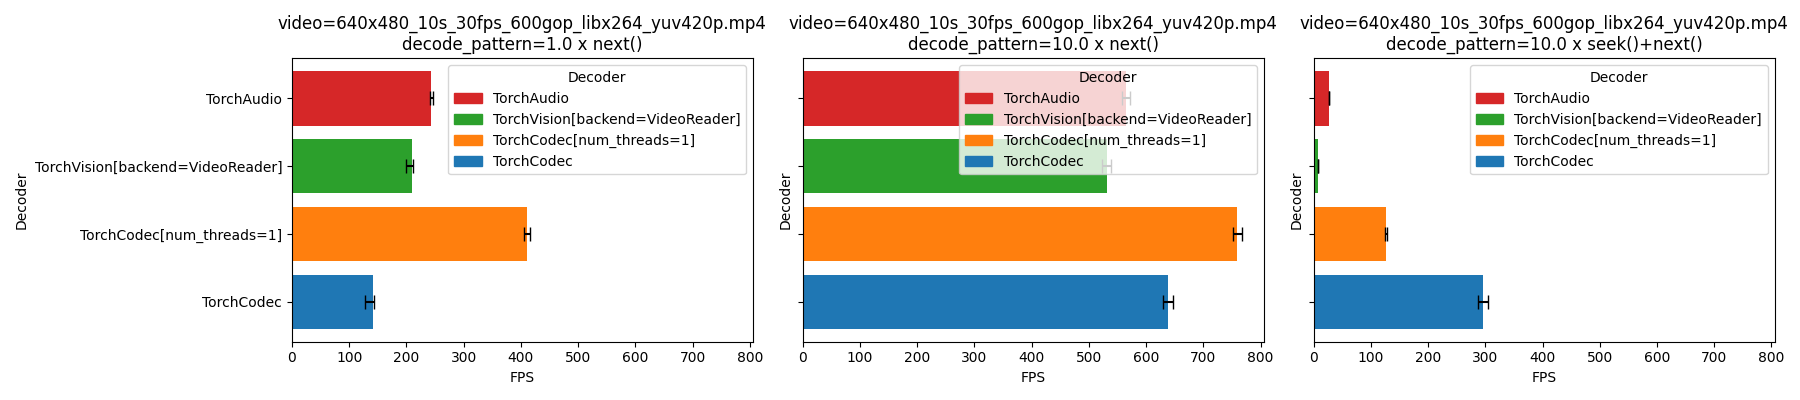
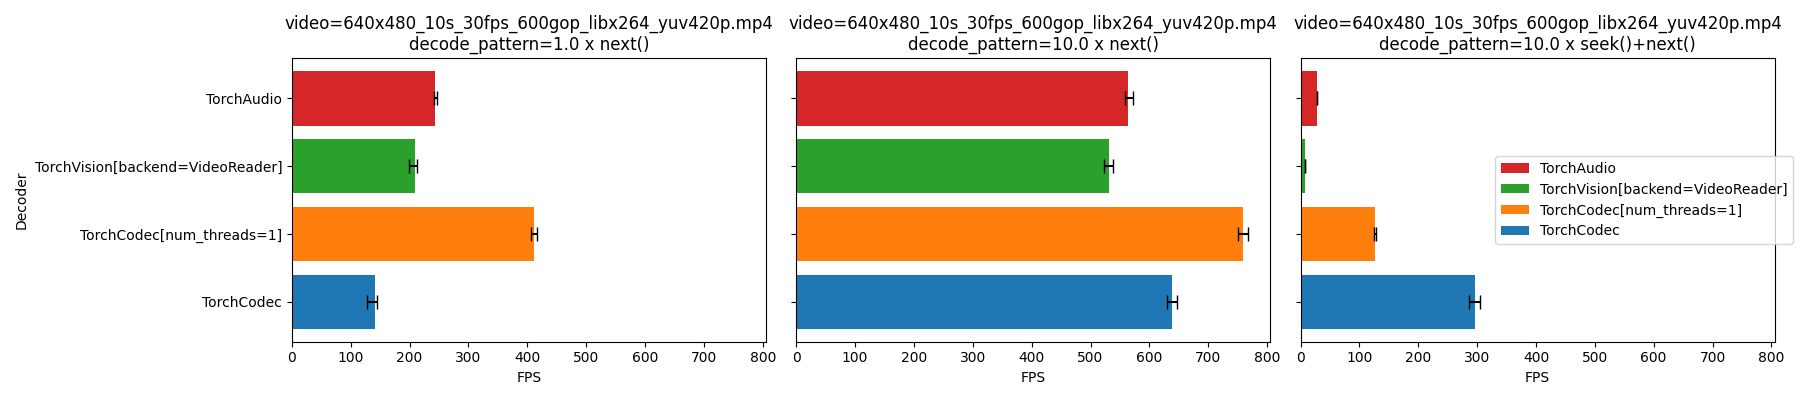
Benchmark graph improvements (#329)

diff --git a/benchmarks/decoders/benchmark_decoders_library.py b/benchmarks/decoders/benchmark_decoders_library.py
@@ -414,27 +414,33 @@ def plot_data(df_data, plot_path):
                 color=[colors(i) for i in range(len(group))],
                 align="center",
                 capsize=5,
+                label=group["decoder"],
             )
 
             # Set the labels
             ax.set_xlabel("FPS")
-            ax.set_ylabel("Decoder")
 
-            # Reverse the order of the handles and labels to match the order of the bars
-            handles = [
-                plt.Rectangle((0, 0), 1, 1, color=colors(i)) for i in range(len(group))
-            ]
-            ax.legend(
-                handles[::-1],
-                group["decoder"][::-1],
-                title="Decoder",
-                loc="upper right",
-            )
+            # No need for y-axis label past the plot on the far left
+            if col == 0:
+                ax.set_ylabel("Decoder")
 
     # Remove any empty subplots for videos with fewer combinations
     for row in range(len(unique_videos)):
         for col in range(video_type_combinations[unique_videos[row]], max_combinations):
             fig.delaxes(axes[row, col])
+
+    # If we just call fig.legend, we'll get duplicate labels, as each label appears on
+    # each subplot. We take advantage of dicts having unique keys to de-dupe.
+    handles, labels = plt.gca().get_legend_handles_labels()
+    unique_labels = dict(zip(labels, handles))
+
+    # Reverse the order of the handles and labels to match the order of the bars
+    fig.legend(
+        handles=reversed(unique_labels.values()),
+        labels=reversed(unique_labels.keys()),
+        frameon=True,
+        loc="right",
+    )
 
     # Adjust layout to avoid overlap
     plt.tight_layout()
